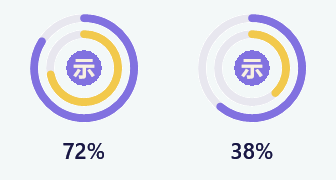
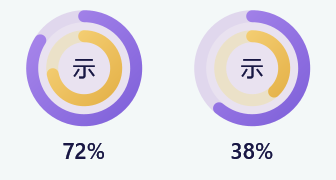
ui: polish dock rings and simplify token hover values

Changed region(s): [[0.0595, 0.0556, 0.4464, 0.7222], [0.5655, 0.0556, 0.9226, 0.7222], [0.2381, 0.5833, 0.2679, 0.6111]]

diff --git a/src/main.cpp b/src/main.cpp
@@ -58,6 +58,7 @@ RECT pendingDockRect{};
 std::string pressedRemove;
 HWND tooltip=nullptr;
 std::wstring tooltipText;
+POINT usagePointer{-1,-1};
 int hotRemove=-1;
 int hotButton=0;
 double scale=1;
@@ -166,7 +167,12 @@ void progress(HDC dc,int x,int y,int w,int h,const std::optional<double>& value,
 }
 void ringColor(HDC dc,int cx,int cy,int radius,const std::optional<double>& value,bool old,COLORREF preferred) {
     auto color=old?(preferred==WARM?RGB(189,178,138):RGB(154,146,183)):preferred;
-    drawQuotaRing(dc,px(cx),px(cy),px(radius),px(4),value,TRACK,color);
+    const bool warm=preferred==WARM;
+    const COLORREF track=warm?RGB(235,225,200):RGB(224,215,237);
+    const COLORREF start=warm?RGB(249,215,128):RGB(173,139,237);
+    const COLORREF end=warm?RGB(226,173,66):RGB(123,93,216);
+    drawQuotaRing(dc,px(cx),px(cy),px(radius),px(6),value,track,
+        old?color:start,old?color:end,BG,glassActive);
 }
 void ring(HDC dc,int cx,int cy,int radius,const std::optional<double>& value,bool old) {
     ringColor(dc,cx,cy,radius,value,old,WARM);
@@ -401,11 +407,15 @@ void usageChart(HDC dc,const View& v,int top,int width) {
     const auto summary=knownCount?(knownCount==7?L"合计 ":L"已知合计 ")+tokenAmount(total):L"暂无数据";
     text(dc,summary,left+150,top+5,area-160,18,MUTED,9,FW_NORMAL,DT_RIGHT|DT_VCENTER|DT_SINGLELINE);
     std::array<Gdiplus::PointF,7> points{};std::array<bool,7> hasData{};
+    int hovered=-1;
     for(int i=0;i<7;++i) {
         int cx=left+step*i+step/2;auto it=v.usage.days.find(dates[i]);
         hasData[i]=it!=v.usage.days.end();
         const int height=hasData[i]&&it->second>0?std::max(3,static_cast<int>(it->second/peak*42)):0;
         points[i]=Gdiplus::PointF(static_cast<float>(px(cx)),static_cast<float>(px(baseline-height)));
+        if(usagePointer.x>=left+step*i&&usagePointer.x<left+step*(i+1)&&
+           usagePointer.y>=top+24&&usagePointer.y<baseline+21&&
+           usagePointer.y>=HEADER&&usagePointer.y<HEADER+viewContent)hovered=i;
     }
     {
         Gdiplus::Graphics graphics(dc);graphics.SetSmoothingMode(Gdiplus::SmoothingModeAntiAlias);
@@ -416,7 +426,7 @@ void usageChart(HDC dc,const View& v,int top,int width) {
         curve.SetStartCap(Gdiplus::LineCapRound);curve.SetEndCap(Gdiplus::LineCapRound);curve.SetLineJoin(Gdiplus::LineJoinRound);
         for(int i=1;i<7;++i)if(hasData[i]&&hasData[i-1])graphics.DrawLine(&curve,points[i-1],points[i]);
         for(int i=0;i<7;++i) {
-            const float radius=static_cast<float>(px(i==6?4:3));
+            const float radius=static_cast<float>(px(i==hovered?5:i==6?4:3));
             Gdiplus::SolidBrush dot(Gdiplus::Color(255,GetRValue(i==6?WARM:ACCENT),GetGValue(i==6?WARM:ACCENT),GetBValue(i==6?WARM:ACCENT)));
             if(hasData[i])graphics.FillEllipse(&dot,points[i].X-radius,points[i].Y-radius,radius*2,radius*2);
             else graphics.DrawEllipse(&curve,static_cast<float>(px(left+step*i+step/2))-radius,
@@ -427,7 +437,21 @@ void usageChart(HDC dc,const View& v,int top,int width) {
         int cx=left+step*i+step/2;
         text(dc,usageDayLabel(i),cx-step/2,baseline+5,step,16,i==6?INK:MUTED,9,i==6?FW_MEDIUM:FW_NORMAL,DT_CENTER|DT_VCENTER|DT_SINGLELINE);
     }
-    if(!v.usage.message.empty())text(dc,wide(v.usage.message),left+8,top+101,area-16,14,MUTED,10);
+    if(hovered>=0) {
+        const auto value=v.usage.days.find(dates[hovered]);
+        std::wostringstream label;
+        if(value==v.usage.days.end())label<<L"—";
+        else if(value->second>0&&value->second<10000)label<<L"<0.01M";
+        else label<<std::fixed<<std::setprecision(2)<<value->second/1000000.0L<<L"M";
+        constexpr int labelWidth=72;
+        const int labelX=std::clamp(logical(static_cast<int>(points[hovered].X))-labelWidth/2,
+            left,left+area-labelWidth);
+        const int labelY=logical(static_cast<int>(points[hovered].Y))-22;
+        text(dc,label.str(),labelX,labelY,labelWidth,16,INK,11,FW_MEDIUM,
+            DT_CENTER|DT_VCENTER|DT_SINGLELINE);
+    } else if(!v.usage.message.empty()) {
+        text(dc,wide(v.usage.message),left+8,top+101,area-16,14,MUTED,10);
+    }
 }
 void detail(HDC dc,const View& v,int y,int w,int index) {
     int height=cardHeight(v);
@@ -492,15 +516,20 @@ void dockedPaint(HDC dc,int width,int height) {
         int cy=horizontal?34:34+i*84-scrollY;
         if((horizontal&&(cx+36<0||cx-36>width))||(!horizontal&&(cy+50<0||cy-30>height)))continue;
         const bool hasMain=main&&!main->weekly();
+        const int ringRadius=hasMain&&week?29:24;
+        const int disc=ringRadius*2;
+        paintSurfaceShape(dc,px(cx-ringRadius),px(cy-ringRadius),px(disc),px(disc),
+            0,RGB(233,226,240),CLR_INVALID,BG,glassActive,true);
         if(hasMain&&week) {
-            ringColor(dc,cx,cy,27,week->remaining,stale(v),ACCENT);
+            ringColor(dc,cx,cy,29,week->remaining,stale(v),ACCENT);
             ringColor(dc,cx,cy,19,main->remaining,stale(v),WARM);
         } else if(week) {
             ringColor(dc,cx,cy,24,week->remaining,stale(v),ACCENT);
         } else {
             ringColor(dc,cx,cy,24,hasMain?main->remaining:std::optional<double>{},stale(v),WARM);
         }
-        avatar(dc,cx,cy,9,avatarText(v.profile));
+        text(dc,avatarText(v.profile),cx-9,cy-9,18,18,INK,11,FW_MEDIUM,
+            DT_CENTER|DT_VCENTER|DT_SINGLELINE);
         text(dc,percent(hasMain?main->remaining:(week?week->remaining:std::optional<double>{})),cx-30,cy+32,60,18,
             v.failed?LOW:INK,11,FW_MEDIUM,DT_CENTER|DT_VCENTER|DT_SINGLELINE);
         if(v.paused||v.failed||(main&&main->remaining&&*main->remaining<20)||(week&&week->remaining&&*week->remaining<20))
@@ -894,20 +923,10 @@ LRESULT CALLBACK proc(HWND hwnd,UINT msg,WPARAM wp,LPARAM lp){
                     if(!v.status.empty())tooltipText+=L"\n"+wide(v.status);
                     if(settings.docked)tooltipText+=L"\n内圈米黄：短周期；外圈淡紫：周额度\n点击展开，滚轮切换账号";
                     if(expanded&&!settings.docked) {
-                        int cardTop=HEADER+4-scrollY;for(int i=0;i<index;++i)cardTop+=cardHeight(views[i])+DETAIL_GAP;
-                        int chart=usageChartTop(v,cardTop),x=logical(p.x),y=logical(p.y);
-                        RECT client{};GetClientRect(hwnd,&client);int step=(logical(client.right)-48)/7;
-                        if(y>=chart+24&&y<chart+102&&x>=22&&x<22+step*7) {
-                            int day=(x-22)/step;auto dates=usageDates();auto found=v.usage.days.find(dates[day]);
-                            long double peak=1;for(const auto& dateValue:dates){auto value=v.usage.days.find(dateValue);if(value!=v.usage.days.end())peak=std::max(peak,static_cast<long double>(value->second));}
-                            const int pointX=22+step*day+step/2;
-                            const int pointY=chart+82-(found!=v.usage.days.end()&&found->second>0?std::max(3,static_cast<int>(found->second/peak*42)):0);
-                            if(std::abs(x-pointX)<=12&&std::abs(y-pointY)<=12) {
-                                tooltipText=compactName(v.profile)+L"\n"+wide(dates[day])+L"（服务日期）\n"+
-                                    (found==v.usage.days.end()?L"无数据":std::to_wstring(found->second)+L" Tokens");
-                                if(demo)tooltipText+=L"\n演示数据";
-                            }
-                        }
+                        int cardTop=HEADER+4-scrollY;
+                        for(int i=0;i<index;++i)cardTop+=cardHeight(views[i])+DETAIL_GAP;
+                        const int chart=usageChartTop(v,cardTop);
+                        if(logical(p.y)>=chart&&logical(p.y)<chart+USAGE_HEIGHT)tooltipText.clear();
                     }
                 } else tooltipText=L"拖动顶栏移动；右键打开设置";
             }
@@ -970,12 +989,29 @@ LRESULT CALLBACK proc(HWND hwnd,UINT msg,WPARAM wp,LPARAM lp){
             }
             return 0;
         }
+        const int x=logical(GET_X_LPARAM(lp)),y=logical(GET_Y_LPARAM(lp));
+        POINT nextUsagePointer{-1,-1};
+        if(expanded&&!settings.docked) {
+            const int index=accountAt(x,y);
+            if(index>=0) {
+                int cardTop=HEADER+4-scrollY;
+                for(int i=0;i<index;++i)cardTop+=cardHeight(views[i])+DETAIL_GAP;
+                const int chart=usageChartTop(views[index],cardTop);
+                if(y>=chart&&y<chart+USAGE_HEIGHT)nextUsagePointer={x,y};
+            }
+        }
+        if(nextUsagePointer.x!=usagePointer.x||nextUsagePointer.y!=usagePointer.y) {
+            if(usagePointer.x<0)SendMessageW(tooltip,TTM_POP,0,0);
+            usagePointer=nextUsagePointer;
+            InvalidateRect(hwnd,nullptr,FALSE);
+        }
         int found=removeAt(logical(GET_X_LPARAM(lp)),logical(GET_Y_LPARAM(lp)));
         if(found!=hotRemove){hotRemove=found;InvalidateRect(hwnd,nullptr,FALSE);}
         TRACKMOUSEEVENT track{sizeof(track),TME_LEAVE,hwnd,0};TrackMouseEvent(&track);
         return 0;
     }
     case WM_MOUSELEAVE:
+        if(usagePointer.x>=0){usagePointer={-1,-1};InvalidateRect(hwnd,nullptr,FALSE);}
         if(hotRemove!=-1){hotRemove=-1;InvalidateRect(hwnd,nullptr,FALSE);}return 0;
     case WM_ENTERSIZEMOVE:dragging=true;return 0;
     case WM_MOVING:{

diff --git a/src/ring_renderer.hpp b/src/ring_renderer.hpp
@@ -1,26 +1,61 @@
 #pragma once
 #include "ui_geometry.hpp"
+#include "surface_renderer.hpp"
 #include <windows.h>
 #include <gdiplus.h>
 #include <optional>
+#include <vector>
 namespace meter {
 inline void drawQuotaRing(HDC dc,int cx,int cy,int radius,int thickness,
-                          std::optional<double> remaining,COLORREF track,COLORREF color) {
-    Gdiplus::Graphics graphics(dc);graphics.SetSmoothingMode(Gdiplus::SmoothingModeAntiAlias);
-    graphics.SetPixelOffsetMode(Gdiplus::PixelOffsetModeHalf);
-    auto colorOf=[](COLORREF value){return Gdiplus::Color(255,GetRValue(value),GetGValue(value),GetBValue(value));};
-    const float diameter=static_cast<float>(radius*2-thickness);
-    const Gdiplus::RectF bounds(static_cast<float>(cx-radius)+thickness*.5f,
-        static_cast<float>(cy-radius)+thickness*.5f,diameter,diameter);
-    Gdiplus::Pen trackPen(colorOf(track),static_cast<float>(thickness));
-    graphics.DrawEllipse(&trackPen,bounds);
-    const double sweep=remaining?quotaSweep(*remaining):0;
-    if(sweep>0) {
-        Gdiplus::Pen activePen(colorOf(color),static_cast<float>(thickness));
-        activePen.SetStartCap(Gdiplus::LineCapRound);activePen.SetEndCap(Gdiplus::LineCapRound);
-        activePen.SetLineJoin(Gdiplus::LineJoinRound);
-        if(sweep>=360)graphics.DrawEllipse(&activePen,bounds);
-        else graphics.DrawArc(&activePen,bounds,-90.0f,static_cast<float>(sweep));
+                          std::optional<double> remaining,COLORREF track,COLORREF color,
+                          std::optional<COLORREF> gradientEnd={},COLORREF background=0,bool glass=false) {
+    const int size=radius*2+4;
+    constexpr int samples=3;
+    const int sampleSize=size*samples;
+    Gdiplus::Bitmap mask(sampleSize,sampleSize,PixelFormat32bppPARGB);
+    {
+        Gdiplus::Graphics graphics(&mask);
+        graphics.Clear(Gdiplus::Color(0,0,0,0));
+        graphics.SetSmoothingMode(Gdiplus::SmoothingModeAntiAlias);
+        graphics.ScaleTransform(static_cast<float>(samples),static_cast<float>(samples));
+        auto colorOf=[](COLORREF value){return Gdiplus::Color(255,GetRValue(value),GetGValue(value),GetBValue(value));};
+        const float diameter=static_cast<float>(radius*2-thickness);
+        const float inset=2.0f+thickness*.5f;
+        const Gdiplus::RectF bounds(inset,inset,diameter,diameter);
+        Gdiplus::Pen trackPen(colorOf(track),static_cast<float>(thickness));
+        graphics.DrawEllipse(&trackPen,bounds);
+        const double sweep=remaining?quotaSweep(*remaining):0;
+        if(sweep>0) {
+            Gdiplus::LinearGradientBrush gradient(
+                Gdiplus::PointF(0,0),
+                Gdiplus::PointF(static_cast<float>(size),static_cast<float>(size)),
+                colorOf(color),colorOf(gradientEnd.value_or(color)));
+            Gdiplus::Pen activePen(&gradient,static_cast<float>(thickness));
+            activePen.SetStartCap(Gdiplus::LineCapRound);activePen.SetEndCap(Gdiplus::LineCapRound);
+            activePen.SetLineJoin(Gdiplus::LineJoinRound);
+            if(sweep>=360)graphics.DrawEllipse(&activePen,bounds);
+            else graphics.DrawArc(&activePen,bounds,-90.0f,static_cast<float>(sweep));
+        }
+    }
+    Gdiplus::Rect area(0,0,sampleSize,sampleSize);
+    Gdiplus::BitmapData data{};
+    if(mask.LockBits(&area,Gdiplus::ImageLockModeRead,PixelFormat32bppPARGB,&data)==Gdiplus::Ok) {
+        std::vector<uint32_t> resolved(static_cast<size_t>(size)*size);
+        const auto* pixels=static_cast<const BYTE*>(data.Scan0);
+        // Resolve coverage in premultiplied space so transparent samples cannot add a fringe.
+        for(int y=0;y<size;++y)for(int x=0;x<size;++x) {
+            unsigned channels[4]{};
+            for(int sy=0;sy<samples;++sy) {
+                const auto* row=pixels+(y*samples+sy)*data.Stride+x*samples*4;
+                for(int sx=0;sx<samples;++sx)for(int c=0;c<4;++c)channels[c]+=row[sx*4+c];
+            }
+            uint32_t pixel=0;
+            for(int c=0;c<4;++c)pixel|=((channels[c]+4)/(samples*samples))<<(c*8);
+            resolved[static_cast<size_t>(y)*size+x]=pixel;
+        }
+        mask.UnlockBits(&data);
+        compositeSurfaceMask(dc,cx-radius-2,cy-radius-2,size,size,
+            reinterpret_cast<const BYTE*>(resolved.data()),size*4,background,glass);
     }
 }
 }

diff --git a/scripts/render-demo.cpp b/scripts/render-demo.cpp
@@ -5,13 +5,20 @@
 #undef wWinMain
 #include <iostream>
 
-void exportDemo(const fs::path& path,bool detailMode,int side) {
+void exportDemo(const fs::path& path,bool detailMode,int side,int hoverDay=-1) {
     expanded=detailMode;settings.docked=side!=0;settings.dockSide=side;
     totalContent=settings.docked?static_cast<int>(views.size())*84:contentHeight();
     viewContent=totalContent;scrollY=0;
     const int width=settings.docked?(side>=3?totalContent:84):(expanded?DETAIL_WIDTH:320);
     const int height=settings.docked?(side>=3?90:totalContent):HEADER+totalContent+(expanded?FOOTER:0);
     SetWindowPos(window,nullptr,0,0,px(width),px(height),SWP_NOZORDER|SWP_NOACTIVATE);
+    if(hoverDay>=0) {
+        const int step=(width-48)/7;
+        const int x=22+step*hoverDay+step/2;
+        const int y=usageChartTop(views.front(),HEADER+4)+68;
+        proc(window,WM_MOUSEMOVE,0,MAKELPARAM(px(x),px(y)));
+        if(usagePointer.x!=x||usagePointer.y!=y)throw std::runtime_error("Usage hover was not detected");
+    }
     BITMAPINFO info{};info.bmiHeader.biSize=sizeof(BITMAPINFOHEADER);
     info.bmiHeader.biWidth=px(width);info.bmiHeader.biHeight=-px(height);
     info.bmiHeader.biPlanes=1;info.bmiHeader.biBitCount=32;
@@ -20,6 +27,7 @@ void exportDemo(const fs::path& path,bool detailMode,int side) {
     if(!dc||!bitmap)throw std::runtime_error("Cannot create export surface");
     auto old=SelectObject(dc,bitmap);
     paint(dc);
+    if(hoverDay>=0)proc(window,WM_MOUSELEAVE,0,0);
     auto control=[&](HWND child,int id,int x,int y,int w,int h) {
         int saved=SaveDC(dc);SetViewportOrgEx(dc,px(x),px(y),nullptr);
         DRAWITEMSTRUCT item{};item.CtlType=ODT_BUTTON;item.CtlID=id;item.hwndItem=child;
@@ -67,6 +75,7 @@ int wmain(int argc,wchar_t** argv) {
         exportDemo(output/L"account-preview.png",true,0);
         clearFonts();scale=1;hotButton=WindowClose;
         exportDemo(output/L"native-detail-preview.png",true,0);
+        exportDemo(output/L"token-hover-preview.png",true,0,3);
         DestroyWindow(window);clearFonts();Gdiplus::GdiplusShutdown(graphicsToken);CoUninitialize();
         return 0;
     }catch(const std::exception& e){std::cerr<<e.what()<<"\n";return 1;}

diff --git a/src/version.h b/src/version.h
@@ -1,4 +1,4 @@
 #pragma once
-#define METER_VERSION "0.3.8"
-#define METER_VERSION_W L"0.3.8"
-#define METER_FILE_VERSION 0,3,8,0
+#define METER_VERSION "0.3.9"
+#define METER_VERSION_W L"0.3.9"
+#define METER_FILE_VERSION 0,3,9,0

diff --git a/RELEASE_NOTES.md b/RELEASE_NOTES.md
@@ -1,11 +1,15 @@
-# Codex Meter v0.3.8
+# Codex Meter v0.3.9
 
 Windows x64 便携版。解压后双击 `codex_meter.exe`，无需安装。
 
 ## 本次更新
 
+- Token 用量悬停改为无框数字，以 M 为单位显示在对应圆点上方。
+- 侧边额度环采用渐变弧、统一淡紫底色与三倍采样，减少亮白缝和锯齿。
+
+## 上一版的图表调整
+
 - 七天 Token 用量改为趋势曲线，底部只显示周几和今天，去掉更新时间提示。
-- 悬停对应圆点显示当天服务日期和完整 Token 数，只有靠近圆点才触发。
 - 收纳圆环改为 4px 抗锯齿圆头轨道，内外圈间距和中心头像层次更细致。
 
 ## 最近的字体更新

diff --git a/CHANGELOG.md b/CHANGELOG.md
@@ -1,3 +1,8 @@
+# 0.3.9 · 2026-11-06
+
+- 悬停 Token 曲线时，在对应圆点上方显示无框 M 单位用量。
+- 优化侧边渐变双环的留白和透明边缘，通过三倍采样平滑圆弧。
+
 # 0.3.8 · 2026-11-04
 
 - 七天 Token 用量改为苹果风格趋势曲线，今天使用米黄色圆点强调，底部去掉更新时间和服务日期提示。

diff --git a/TESTING.md b/TESTING.md
@@ -1,4 +1,4 @@
-# 0.3.8 测试步骤
+# 0.3.9 测试步骤
 
 ## 推荐首次测试顺序
 
